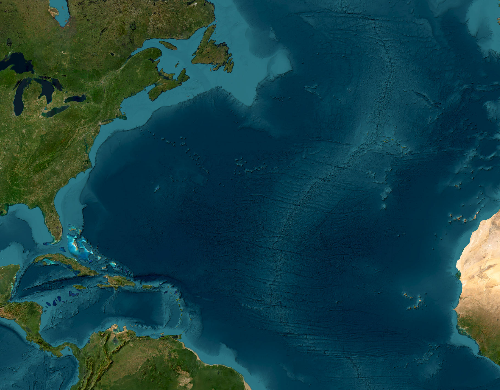
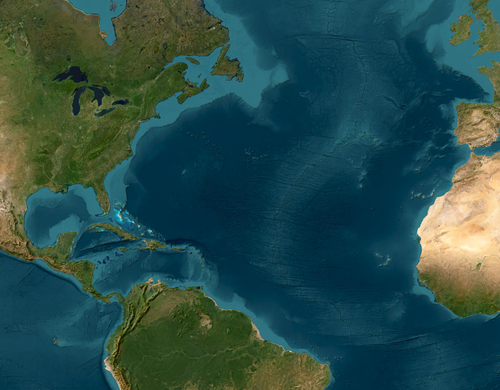
Deploy Storm Explorer Multi-track v0.8 (source)

diff --git a/src/components/left-panel/run-thumbnail.tsx b/src/components/left-panel/run-thumbnail.tsx
@@ -24,7 +24,11 @@ import css from "./run-thumbnail.scss";
 // The app map, base maps, and SST PNGs are all Web Mercator (EPSG:3857 — see simulation.ts's
 // seaSurfaceTempAt), so the thumbnail projects everything in Mercator too, over this North Atlantic
 // window (a bit wider than the app's map bounds so edge tracks/markers aren't clipped).
-const LAT_MAX = 54, LAT_MIN = 2, LNG_MIN = -90, LNG_MAX = -10;
+// Wide, zoomed-out window over the North Atlantic: full Gulf of Mexico on the left, a good slice of
+// West Africa (and Iberia) on the right, northern South America at the bottom. Latitude is aspect-
+// locked to 100:78 (top fixed, extra height on the bottom). The base-map crops in basemap-thumbs/ are
+// regenerated to EXACTLY these bounds (Esri tiles via the gen-basemaps script), so they change together.
+const LAT_MAX = 56.9429, LAT_MIN = -10.4166, LNG_MIN = -102.6667, LNG_MAX = 0;
 // Normalized Web Mercator (0..1 over the whole world), matching the full-world square SST PNGs.
 const mx = (lng: number) => (lng + 180) / 360;
 const my = (lat: number) => (1 - Math.asinh(Math.tan((lat * Math.PI) / 180)) / Math.PI) / 2;

diff --git a/src/components/top-bar/top-bar.tsx b/src/components/top-bar/top-bar.tsx
@@ -10,8 +10,8 @@ import { getAppName } from "../../utils/app";
 import css from "./top-bar.scss";
 
 // StormExplorer version label shown at the top-left. Bump these when cutting a new version.
-const APP_VERSION_MAIN = "Storm Explorer: Multi-track · v0.7 · ";
-const APP_VERSION_UPDATED = "updated: 8/18/26";
+const APP_VERSION_MAIN = "Storm Explorer: Multi-track · v0.8 · ";
+const APP_VERSION_UPDATED = "updated: 8/24/26";
 
 interface IProps extends IBaseProps {}
 interface IState {

diff --git a/scripts/gen-basemap-thumbs.py b/scripts/gen-basemap-thumbs.py
@@ -1,0 +1,72 @@
+#!/usr/bin/env python3
+"""
+Regenerate the run-card thumbnail base-map crops in src/assets/basemap-thumbs/.
+
+The thumbnail (src/components/left-panel/run-thumbnail.tsx) draws a synthetic mini-map: a baked
+base-map PNG ground with the storm track / H-L / SST-anomaly markers projected on top. The base-map
+PNGs are Web-Mercator crops of an exact lat/lng window, and that window MUST match the projection
+bounds in run-thumbnail.tsx (LAT_MAX / LAT_MIN / LNG_MIN / LNG_MAX) or the coastlines won't line up
+with the markers. This script fetches the same Esri tile layers the live app uses, stitches them,
+and crops to that exact window.
+
+Usage:  python3 scripts/gen-basemap-thumbs.py
+Requires: Pillow (pip install Pillow) and network access to the Esri tile servers.
+
+To change the framing: edit LNG_MIN / LNG_MAX / LAT_MAX below, run this, then set the SAME values in
+run-thumbnail.tsx. (LAT_MIN is computed to keep the 100:78 aspect with the top fixed.)
+"""
+import io, math, os, time, urllib.request
+from PIL import Image
+
+# ---- window (keep in sync with run-thumbnail.tsx) --------------------------------------------
+Z = 4                               # tile zoom; source ~1080px wide -> ample for a 500px crop
+LNG_MIN, LNG_MAX = -102.6667, 0.0   # full Gulf of Mexico on the left, West Africa/Iberia on the right
+LAT_MAX = 56.9429                   # top fixed; bottom (LAT_MIN) derived below to keep 100:78
+OUT_W, OUT_H = 500, 390             # crop size (100:78) — matches the thumbnail viewBox aspect
+
+TILE = 256
+LAYERS = {
+    "satellite": "https://server.arcgisonline.com/ArcGIS/rest/services/World_Imagery/MapServer/tile/{z}/{y}/{x}",
+    "street":    "https://services.arcgisonline.com/ArcGIS/rest/services/World_Topo_Map/MapServer/tile/{z}/{y}/{x}",
+    "relief":    "https://tiles.arcgis.com/tiles/C8EMgrsFcRFL6LrL/arcgis/rest/services/ETOPO1_Global_Relief_Model_Color_Shaded_Relief/MapServer/tile/{z}/{y}/{x}",
+}
+
+def mx(lng): return (lng + 180.0) / 360.0
+def my(lat): return (1.0 - math.asinh(math.tan(math.radians(lat))) / math.pi) / 2.0
+def lat_of_my(m): return math.degrees(math.atan(math.sinh(math.pi * (1.0 - 2.0 * m))))
+
+wnorm = mx(LNG_MAX) - mx(LNG_MIN)
+LAT_MIN = lat_of_my(my(LAT_MAX) + wnorm * (OUT_H / float(OUT_W)))   # aspect-locked, top fixed
+print(f"bounds: LAT_MAX={LAT_MAX} LAT_MIN={LAT_MIN:.4f} LNG_MIN={LNG_MIN} LNG_MAX={LNG_MAX}")
+print(f"  -> set these in run-thumbnail.tsx (LAT_MIN rounded to 4dp)")
+
+N = TILE * (2 ** Z)
+gx = lambda lng: mx(lng) * N
+gy = lambda lat: my(lat) * N
+gx0, gx1, gy0, gy1 = gx(LNG_MIN), gx(LNG_MAX), gy(LAT_MAX), gy(LAT_MIN)
+tx0, tx1 = int(gx0 // TILE), int(gx1 // TILE)
+ty0, ty1 = int(gy0 // TILE), int(gy1 // TILE)
+
+def fetch(url):
+    req = urllib.request.Request(url, headers={"User-Agent": "basemap-thumb-gen"})
+    for attempt in range(4):
+        try:
+            with urllib.request.urlopen(req, timeout=25) as r:
+                return Image.open(io.BytesIO(r.read())).convert("RGB")
+        except Exception as e:
+            if attempt == 3:
+                raise RuntimeError(f"failed {url}: {e}")
+            time.sleep(1.0)
+
+outdir = os.path.join(os.path.dirname(os.path.dirname(os.path.abspath(__file__))),
+                      "src", "assets", "basemap-thumbs")
+for name, tmpl in LAYERS.items():
+    canvas = Image.new("RGB", ((tx1 - tx0 + 1) * TILE, (ty1 - ty0 + 1) * TILE))
+    for ty in range(ty0, ty1 + 1):
+        for tx in range(tx0, tx1 + 1):
+            canvas.paste(fetch(tmpl.format(z=Z, y=ty, x=tx)), ((tx - tx0) * TILE, (ty - ty0) * TILE))
+    box = (round(gx0 - tx0 * TILE), round(gy0 - ty0 * TILE),
+           round(gx1 - tx0 * TILE), round(gy1 - ty0 * TILE))
+    canvas.crop(box).resize((OUT_W, OUT_H), Image.LANCZOS).save(os.path.join(outdir, name + ".png"))
+    print("wrote", name + ".png")
+print("done ->", outdir)
